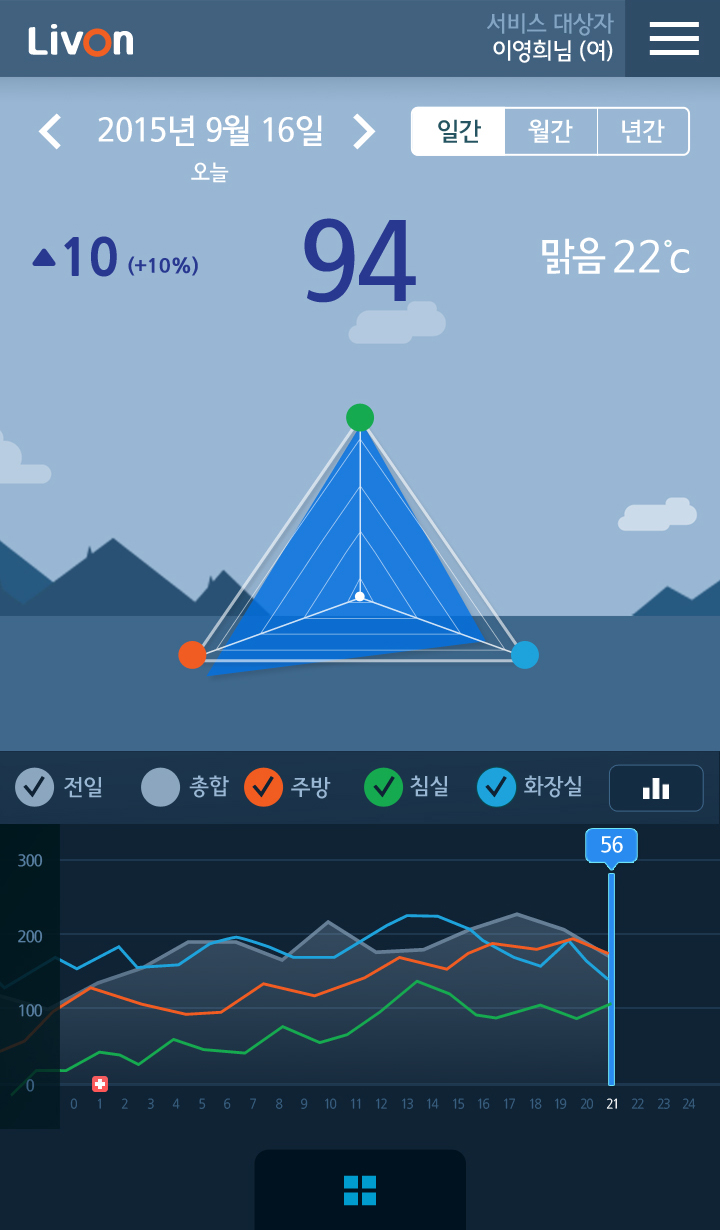
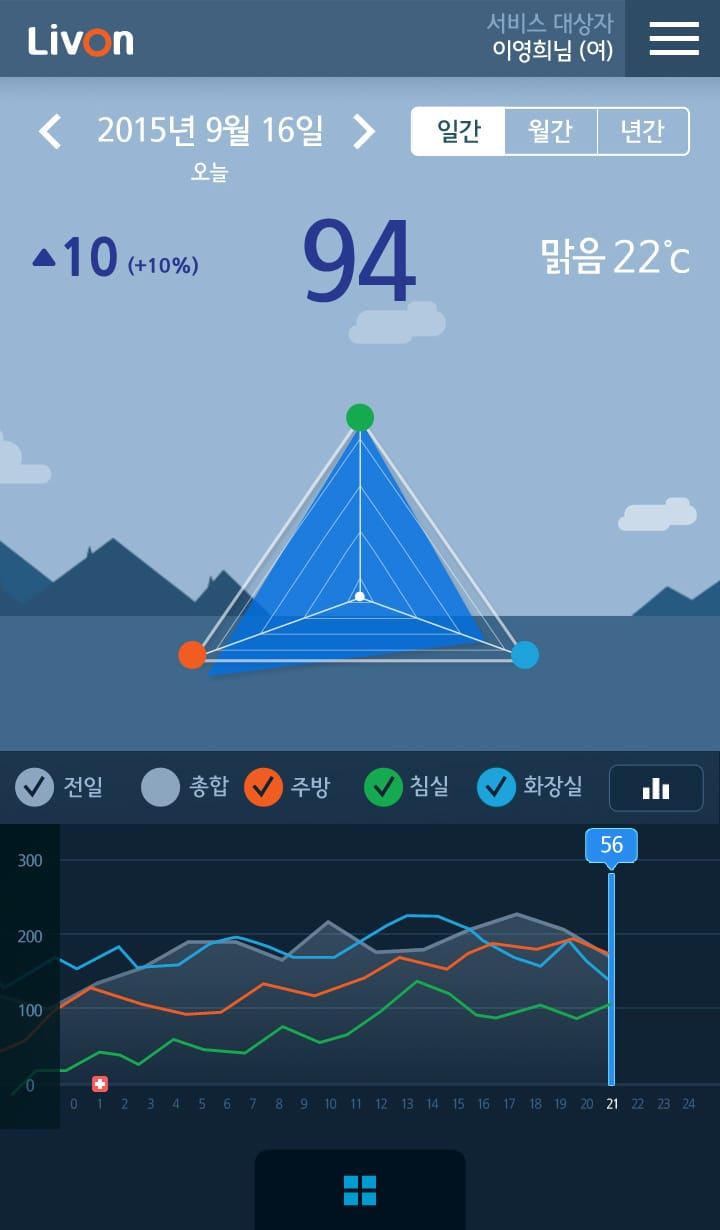
S12: 데모 이미지 최적화(jpg·png 20.7MB -> 5.9MB)
- scripts/optimize-demo-media.ts: 1920px 상한, mozjpeg q80, png 팔레트 q90, 10% 넘게 줄 때만 쓰기(재실행 안전).
- public/html 35MB -> 20MB. 데모 12쪽 실제 브라우저에서 이미지 143개 모두 로드(깨짐 0).
- tests/unit/demo-media.test.ts: 1MB·1920px 상한과 재실행 안정성.

diff --git a/scripts/optimize-demo-media.ts b/scripts/optimize-demo-media.ts
@@ -1,0 +1,62 @@
+/**
+ * public/html 데모의 jpg·png를 제자리에서 다시 압축한다(파일명·형식 유지: 데모 HTML이 이름으로 참조한다).
+ *
+ *   pnpm tsx scripts/optimize-demo-media.ts
+ *
+ * - 가로 1920px 초과는 1920px로 줄이고, EXIF·방향 정보는 적용 후 제거한다. jpg는 mozjpeg q80, png는 팔레트 q90.
+ * - 결과가 원본보다 10% 넘게 작을 때만 쓴다. 이미 작은 파일(100KB 이하이고 1920px 이하)은 건드리지 않고, 10% 넘게 줄 때만 쓴다(다시 돌려도 세대 손실이 쌓이지 않는다).
+ * - 사이트 본문 이미지는 이 스크립트와 무관하다(빌드 때 Astro가 avif·webp로 만든다).
+ * copy-demos.ts로 데모를 다시 복사했다면 그 뒤에 이 스크립트를 다시 실행한다(tests/unit/demo-media.test.ts가 상한을 지킨다).
+ */
+import { readdir, readFile, stat, writeFile } from 'node:fs/promises';
+import { extname, join, resolve } from 'node:path';
+import { fileURLToPath } from 'node:url';
+import sharp from 'sharp';
+
+export const MAX_WIDTH = 1920;
+export const SKIP_BYTES = 100 * 1024;
+
+async function* walk(dir: string): AsyncGenerator<string> {
+  for (const e of await readdir(dir, { withFileTypes: true })) {
+    const p = join(dir, e.name);
+    if (e.isDirectory()) yield* walk(p);
+    else yield p;
+  }
+}
+
+export async function optimizeImage(file: string): Promise<{ before: number; after: number }> {
+  const ext = extname(file).toLowerCase();
+  const buf = await readFile(file);
+  if (ext !== '.jpg' && ext !== '.png') return { before: buf.length, after: buf.length };
+  const meta = await sharp(buf, { failOn: 'none' }).metadata();
+  if (buf.length <= SKIP_BYTES && (meta.width ?? 0) <= MAX_WIDTH) {
+    return { before: buf.length, after: buf.length };
+  }
+  const pipe = sharp(buf, { failOn: 'none' })
+    .rotate()
+    .resize({ width: MAX_WIDTH, withoutEnlargement: true });
+  const out =
+    ext === '.jpg'
+      ? await pipe.jpeg({ quality: 80, mozjpeg: true }).toBuffer()
+      : await pipe.png({ compressionLevel: 9, palette: true, quality: 90, effort: 10 }).toBuffer();
+  if (out.length > buf.length * 0.9) return { before: buf.length, after: buf.length };
+  await writeFile(file, out);
+  return { before: buf.length, after: out.length };
+}
+
+async function main() {
+  const root = resolve(fileURLToPath(import.meta.url), '../../public/html');
+  await stat(root);
+  let before = 0;
+  let after = 0;
+  let n = 0;
+  for await (const f of walk(root)) {
+    const r = await optimizeImage(f);
+    before += r.before;
+    after += r.after;
+    if (r.after < r.before) n++;
+  }
+  console.log(`optimize-demo-media: ${n} files rewritten, ${before} -> ${after} bytes`);
+}
+
+if (process.argv[1] && resolve(process.argv[1]) === fileURLToPath(import.meta.url)) await main();

diff --git a/tests/unit/demo-media.test.ts b/tests/unit/demo-media.test.ts
@@ -1,0 +1,46 @@
+import { mkdtempSync, readdirSync, readFileSync, statSync, writeFileSync } from 'node:fs';
+import { tmpdir } from 'node:os';
+import { extname, join } from 'node:path';
+import sharp from 'sharp';
+import { describe, expect, it } from 'vitest';
+import { MAX_WIDTH, optimizeImage } from '../../scripts/optimize-demo-media';
+
+const demos = join(import.meta.dirname, '../../public/html');
+
+function images(dir: string): string[] {
+  return readdirSync(dir, { withFileTypes: true }).flatMap((e) => {
+    const p = join(dir, e.name);
+    if (e.isDirectory()) return images(p);
+    return ['.jpg', '.png'].includes(extname(p).toLowerCase()) ? [p] : [];
+  });
+}
+
+describe('데모 이미지 최적화', () => {
+  it('모든 데모 jpg·png가 1MB 이하이고 가로 1920px 이하다', async () => {
+    const list = images(demos);
+    expect(list.length).toBeGreaterThan(50);
+    for (const f of list) {
+      expect(statSync(f).size, f).toBeLessThanOrEqual(1024 * 1024);
+      const m = await sharp(readFileSync(f), { failOn: 'none' }).metadata();
+      expect(m.width ?? 0, f).toBeLessThanOrEqual(MAX_WIDTH);
+    }
+  });
+
+  it('큰 이미지는 줄이고, 다시 돌리면 건드리지 않는다', async () => {
+    const dir = mkdtempSync(join(tmpdir(), 'demo-media-'));
+    const raw = Buffer.alloc(2600 * 1200 * 3);
+    for (let i = 0; i < raw.length; i++) raw[i] = (i * 7 + ((i / 3000) | 0)) & 255;
+    const file = join(dir, 'big.png');
+    writeFileSync(
+      file,
+      await sharp(raw, { raw: { width: 2600, height: 1200, channels: 3 } })
+        .png({ compressionLevel: 0 })
+        .toBuffer(),
+    );
+    const first = await optimizeImage(file);
+    expect(first.after).toBeLessThan(first.before);
+    expect((await sharp(file).metadata()).width).toBe(MAX_WIDTH);
+    const again = await optimizeImage(file);
+    expect(again.after).toBe(again.before);
+  });
+});
